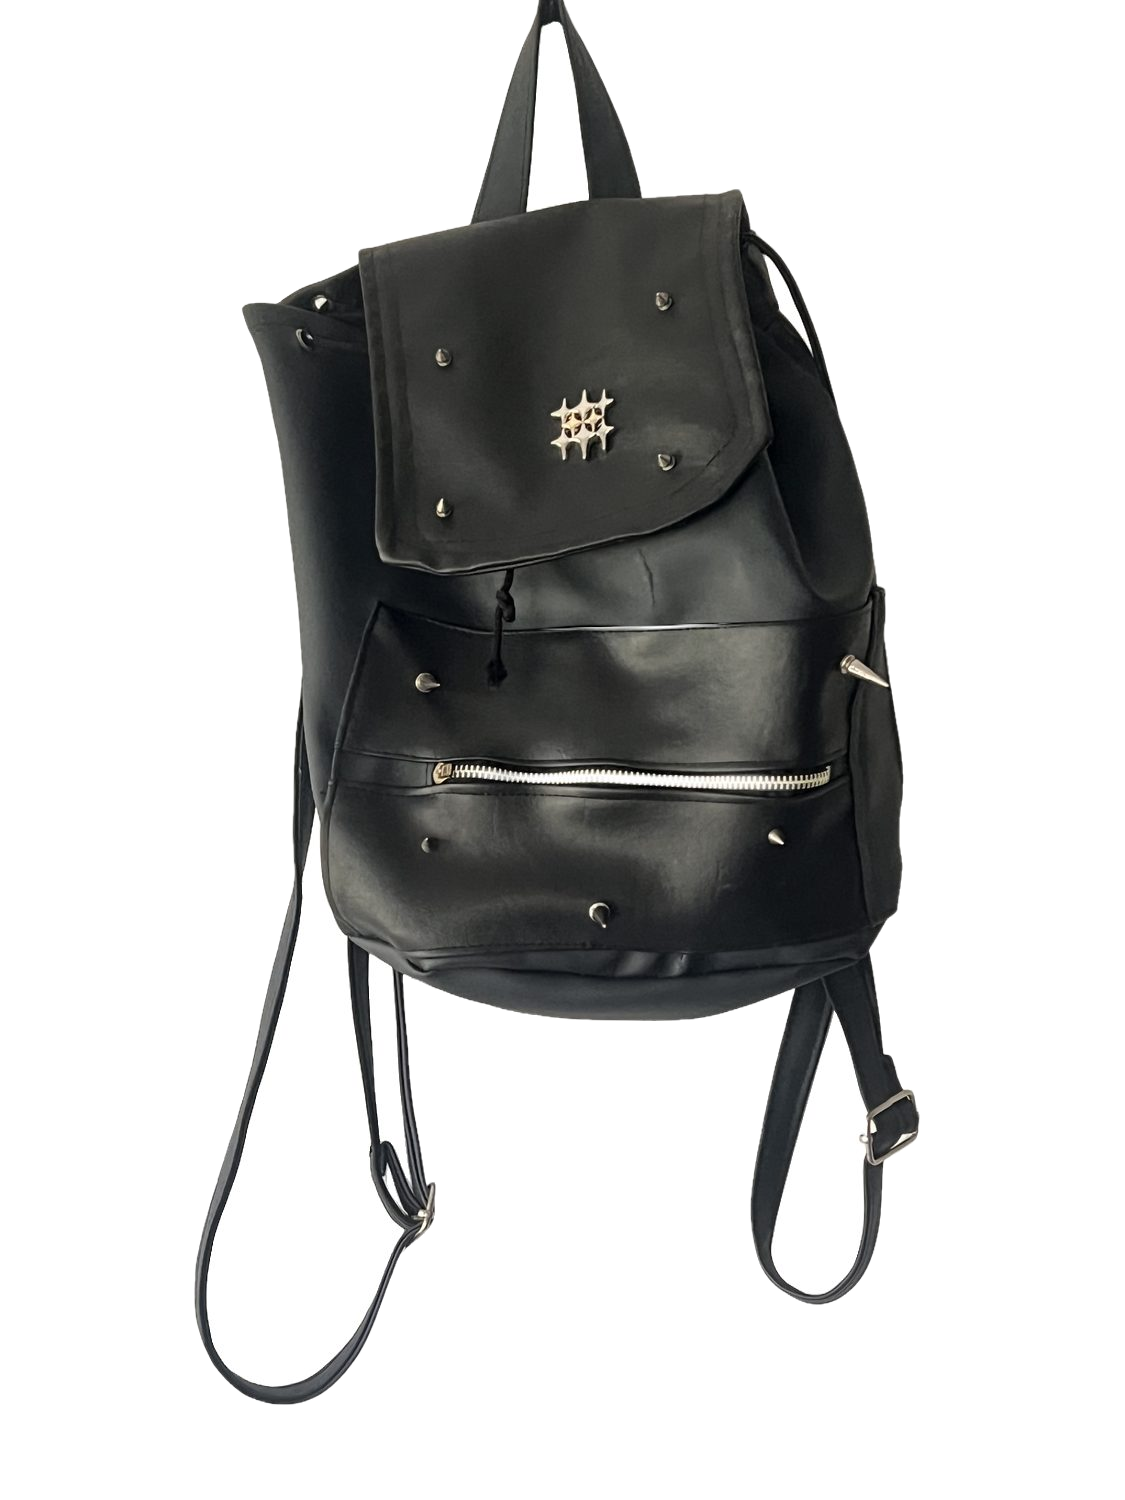
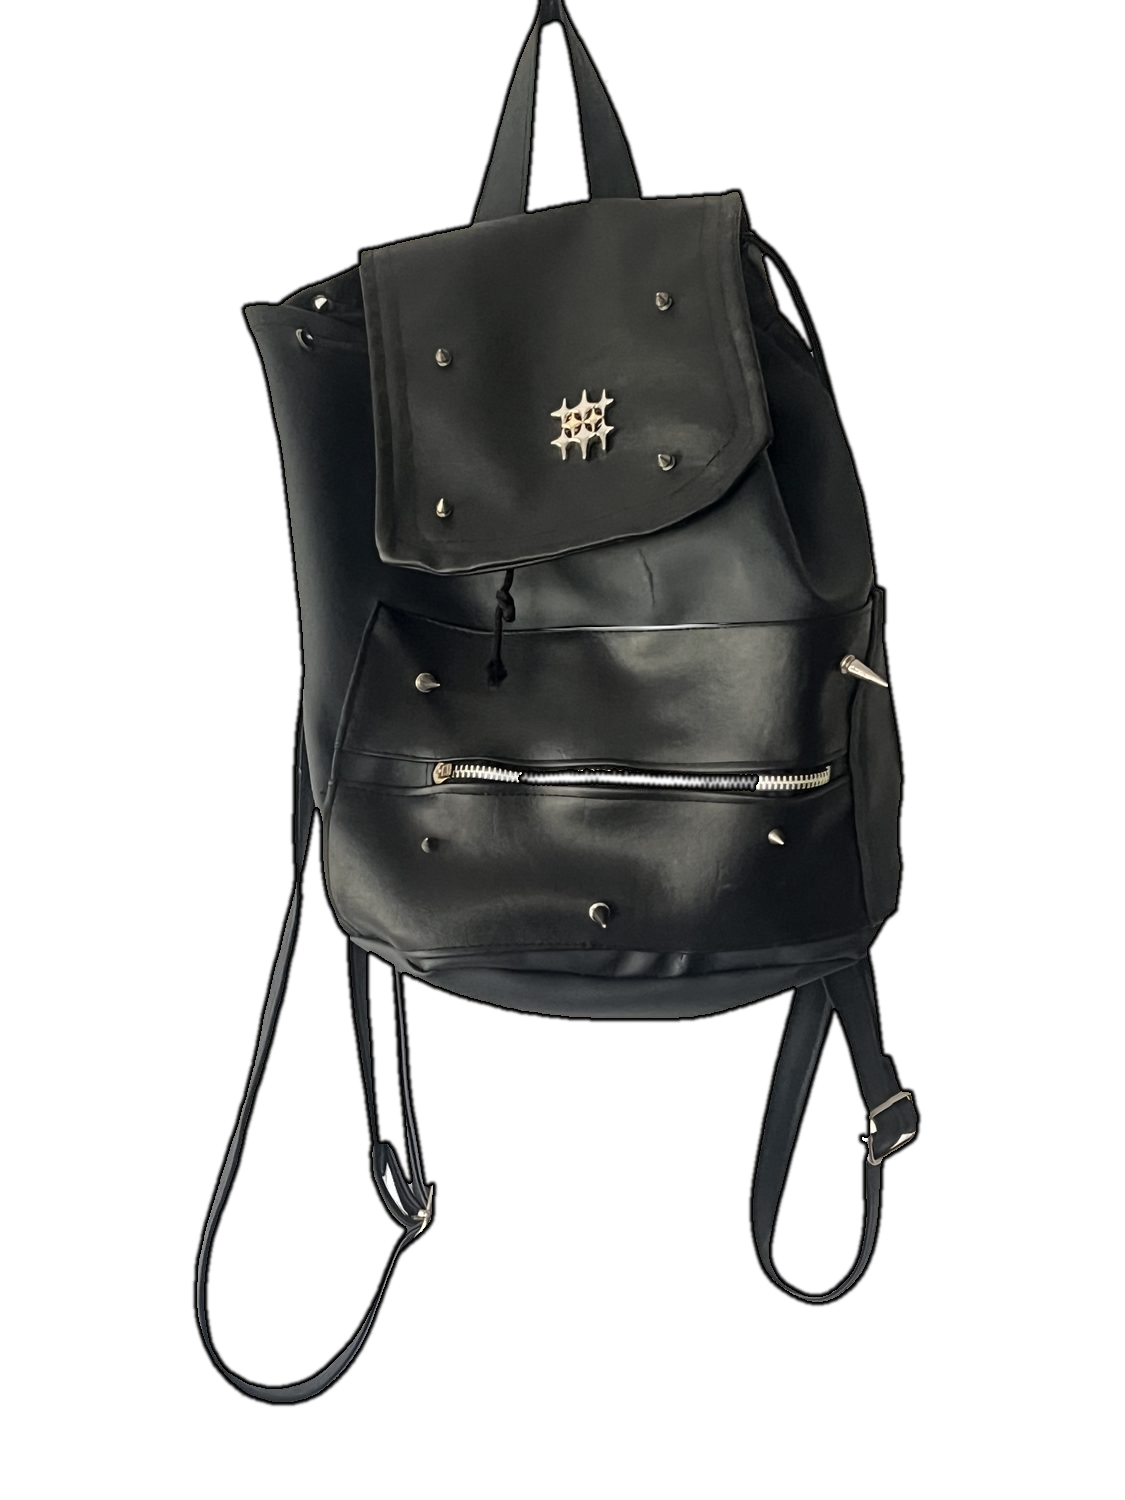
Fix backpack white halo and cap collection item image height
The backpack's cutout had two bugs: the strap-loop negative space
never got removed at all (enclosed holes not touching the image
border were treated the same as protected interior details like the
badge, so they stayed fully opaque white), and separately, removed
pixels kept their original white RGB despite zero alpha, which bleeds
through as a halo when the browser downscales the image. Fixed both —
the background-removal script now also clears sufficiently large
enclosed holes, and darkens any non-fully-opaque pixel's RGB so there's
nothing light left to bleed through on any page background.

Also cap collection item gallery images at a max height (65vh, 560px)
with object-fit: contain so a very tall portrait photo (the mini skirt)
doesn't dominate the entire screen on mobile — still shows the full
image, just bounded.

diff --git a/css/styles.css b/css/styles.css
@@ -519,6 +519,8 @@ p {
 .collection-item-gallery img {
   flex: 0 0 auto;
   width: 100%;
+  height: min(65vh, 560px);
+  object-fit: contain;
   scroll-snap-align: start;
   border-radius: var(--radius);
   background: var(--bg-dark);

diff --git a/scripts/remove_white_bg.py b/scripts/remove_white_bg.py
@@ -12,7 +12,7 @@ from PIL import Image, ImageFilter
 from scipy import ndimage
 
 
-def remove_white_background(src_path, dst_path, threshold=235):
+def remove_white_background(src_path, dst_path, threshold=235, min_hole_size=500):
     img = Image.open(src_path).convert("RGB")
     arr = np.array(img)
 
@@ -23,18 +23,36 @@ def remove_white_background(src_path, dst_path, threshold=235):
     is_low_sat = (mx - mn) < 20
     candidate = is_bright & is_low_sat
 
-    # Only keep candidate regions connected to the border (true background),
-    # not isolated near-white pixels inside the subject.
+    # Remove candidate regions connected to the border (true background),
+    # plus any enclosed candidate region large enough to be a real hole
+    # in the subject (e.g. the negative space inside a strap loop) —
+    # but not small isolated near-white pixels inside the subject
+    # (e.g. a metallic badge's specular highlight), which stay intact.
     labeled, n = ndimage.label(candidate)
     border_labels = set(labeled[0, :]) | set(labeled[-1, :]) | set(labeled[:, 0]) | set(labeled[:, -1])
     border_labels.discard(0)
 
-    bg_mask = np.isin(labeled, list(border_labels))
+    sizes = ndimage.sum(candidate, labeled, range(1, n + 1))
+    hole_labels = {i + 1 for i, s in enumerate(sizes) if s >= min_hole_size}
+
+    bg_mask = np.isin(labeled, list(border_labels | hole_labels))
 
     alpha = np.where(bg_mask, 0, 255).astype(np.uint8)
     alpha_img = Image.fromarray(alpha, mode="L").filter(ImageFilter.GaussianBlur(1.2))
+    alpha_arr = np.array(alpha_img)
 
-    rgba = img.convert("RGBA")
+    # Darken every pixel that isn't fully opaque (the removed background
+    # AND the soft blurred edge ring around it), not just the fully-
+    # transparent ones. Browsers/PIL resize each RGBA channel
+    # independently, so a light studio-white edge pixel sitting next to
+    # a black-leather pixel interpolates to light gray at reduced sizes
+    # — a visible white halo, invisible on a light page but glaring on
+    # a dark one. Keeping both endpoints of that interpolation dark
+    # (black matches this subject) avoids the halo on any background.
+    arr_out = arr.copy()
+    arr_out[alpha_arr < 255] = 0
+
+    rgba = Image.fromarray(arr_out, mode="RGB").convert("RGBA")
     rgba.putalpha(alpha_img)
     rgba.save(dst_path, "PNG", optimize=True)
     print(f"{src_path} -> {dst_path} ({rgba.size[0]}x{rgba.size[1]})")
